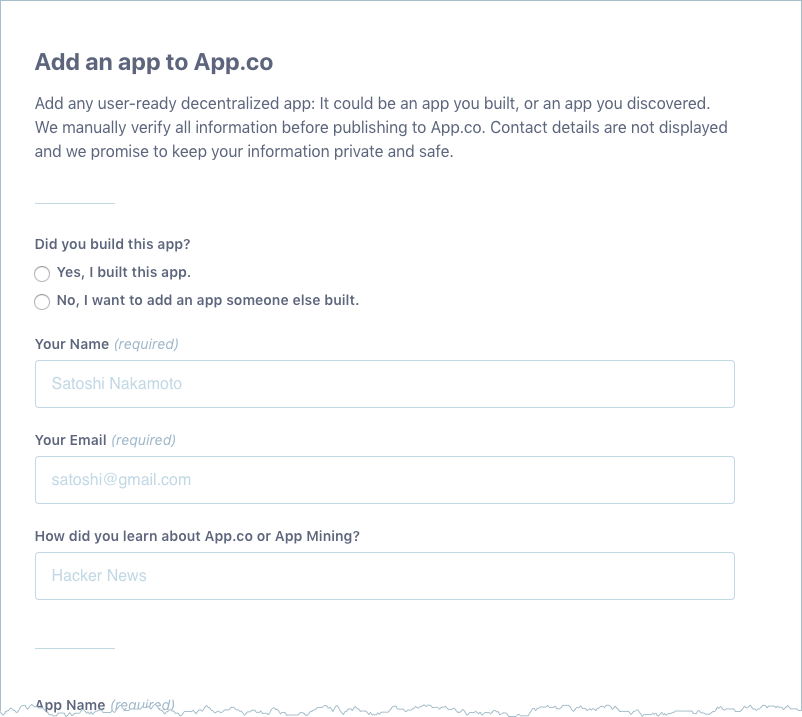
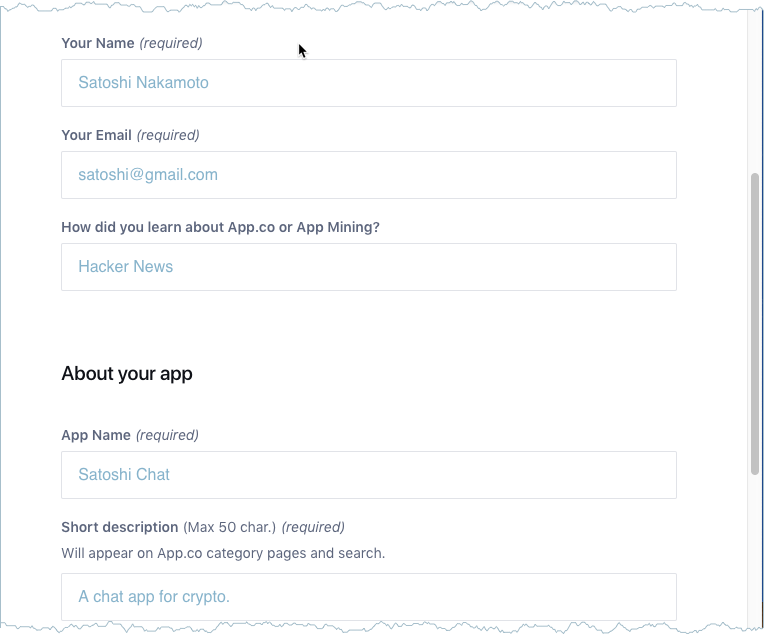
Updating new screen caps

diff --git a/_develop/mining_enroll.md b/_develop/mining_enroll.md
@@ -27,9 +27,11 @@ To apply, do the following:
 
 2. Choose <a href="https://app.co/submit" target="\_blank"><strong>Submit app</strong></a> from the App.co site.
 
-3. Sign into the application with your Blockstack ID.
+3. Sign into the submission form with your Blockstack ID.
 
-   You will use your Blockstack ID to access your submisison in the future. If you have multiple IDs, make sure you keep track of which ID you use during your submission.
+   <img src="images/submission-signin.png" alt="">
+
+   You will use your Blockstack ID to access your submisison in the future. If you have multiple IDs, make sure you keep track of which ID you use during your submission
 
 4. Fill out all the form's required fields. 
 
@@ -39,7 +41,10 @@ To apply, do the following:
    
    You must choose **Blockstack** from the **Authentication** category on the form; If you do not, you cannot participate in App Mining.
 
-5. Press **Submit App**.
+5. Check the box that says *App is publicly accessible and user-ready(required)*.
+6. Agree to the terms and policies.
+
+7. Press **Submit your app**.
 
    The system responds with the a completion dialog and an application link. 
 
@@ -47,7 +52,7 @@ To apply, do the following:
    
    You will also receive an email from the App.co team acknowledging receipt of your submission.
 
-6. Copy and store the application link.
+8. Copy and store the application link.
 
 ## Provide pay out and tax details
 

diff --git a/_includes/required-fields.md b/_includes/required-fields.md
@@ -38,7 +38,7 @@
         <td>The URL where your source code lives. If you are submitting an example of Animal Kingdom sample, you can leave this blank for a sample application.&nbsp;&nbsp;</td>
       </tr>
       <tr>
-        <td><strong>Twitter Handle</strong></td>
+        <td><strong>Application's Twitter Handle</strong></td>
         <td>Optionally enter a Twitter handle for your application, for example `@coolapp`.</td>
       </tr>
       <tr>
